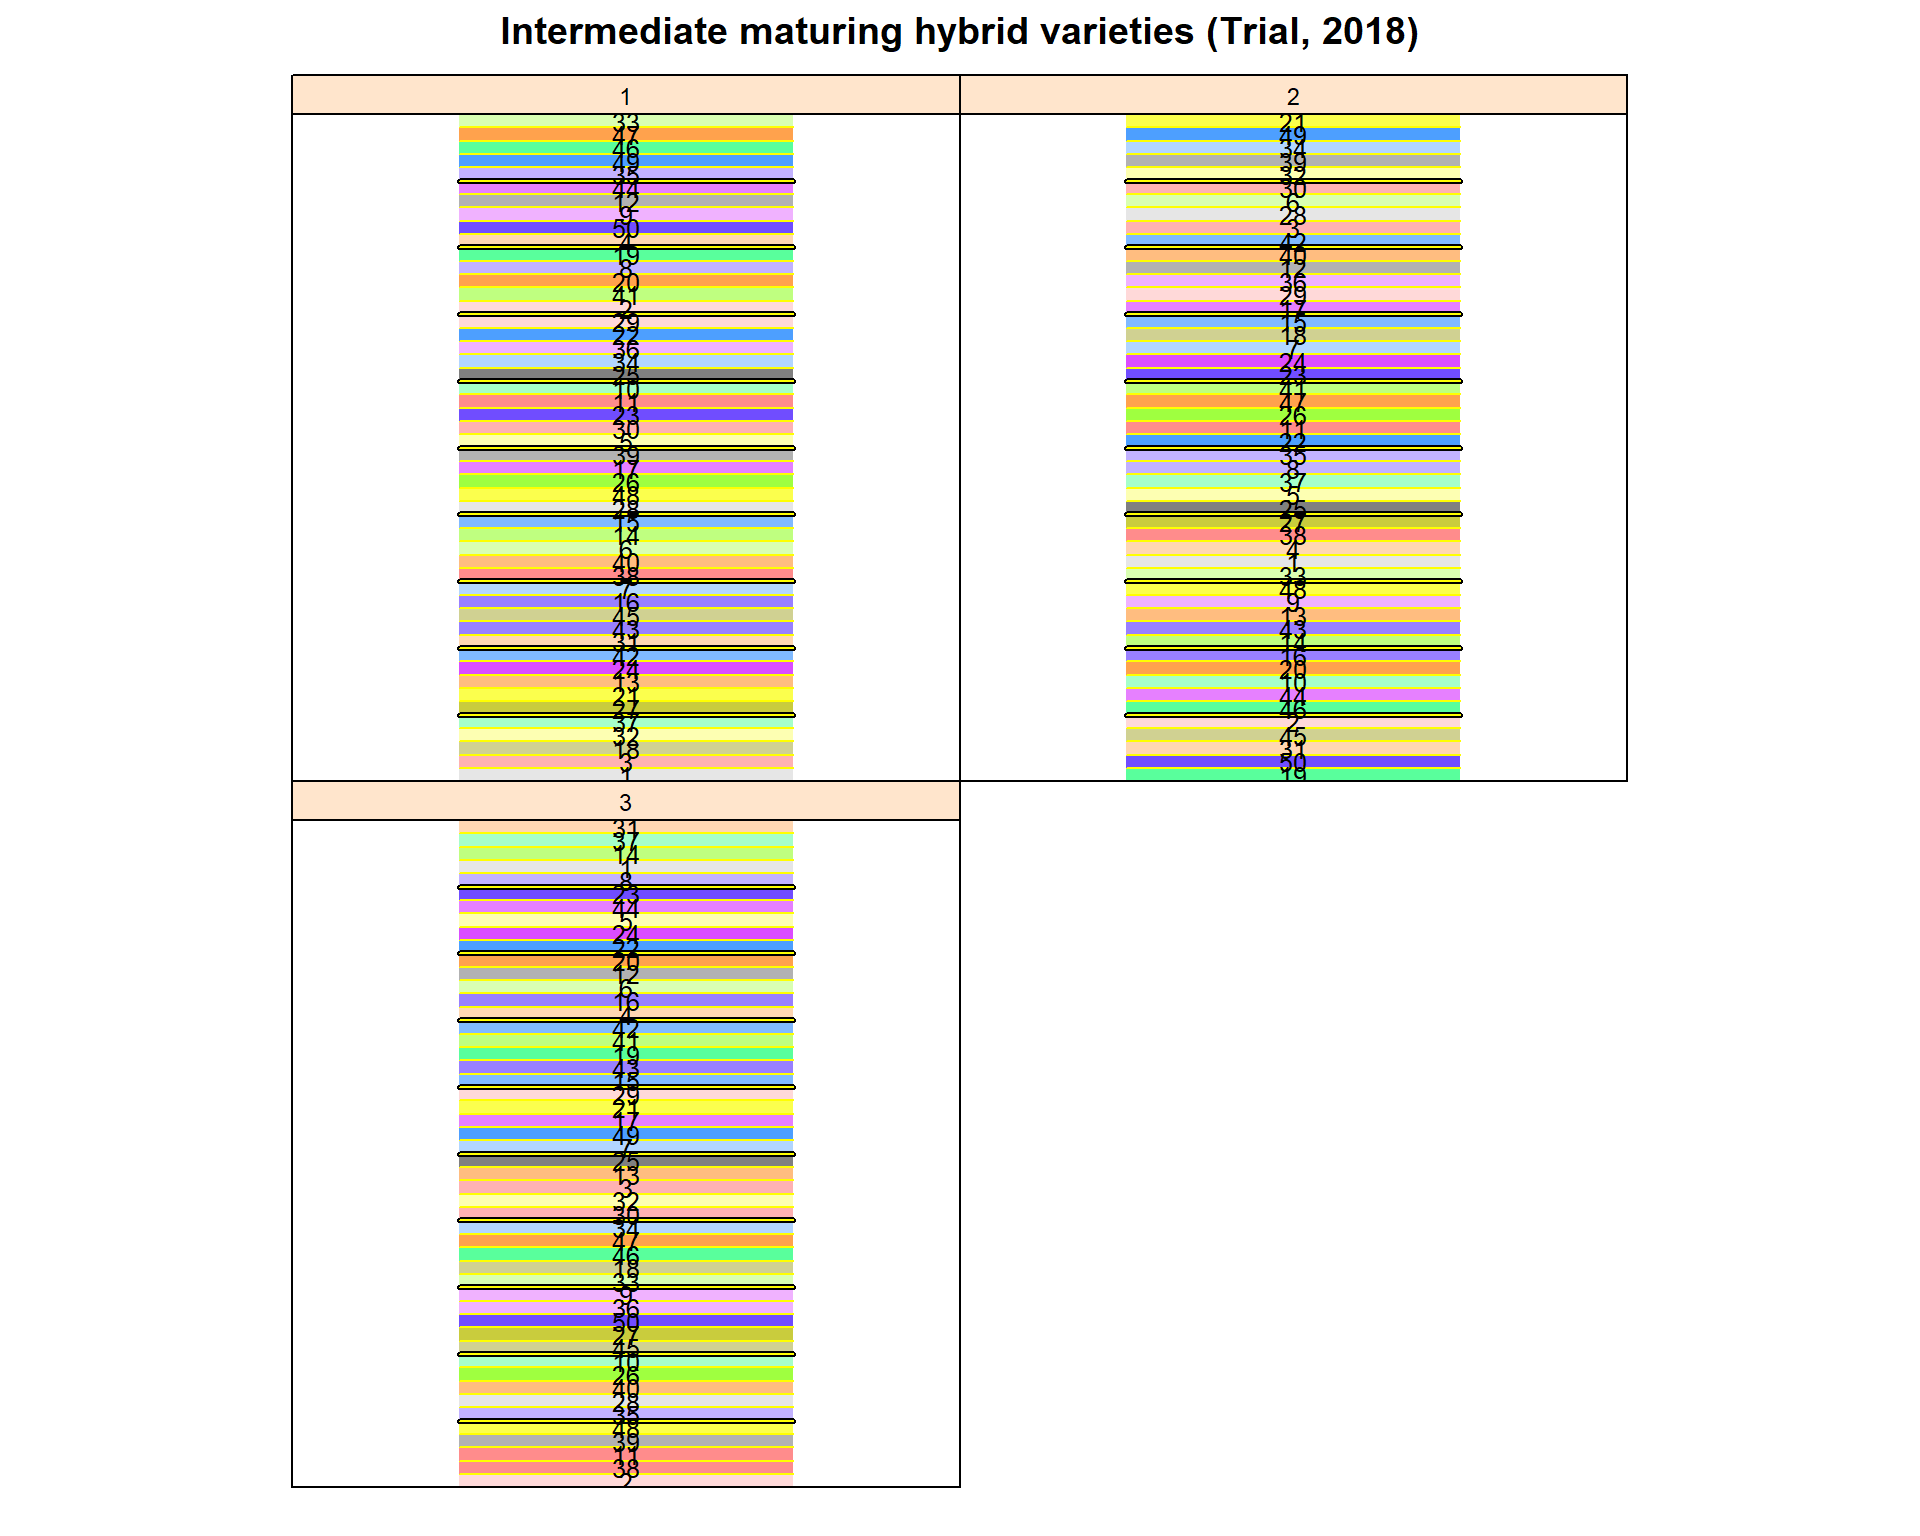
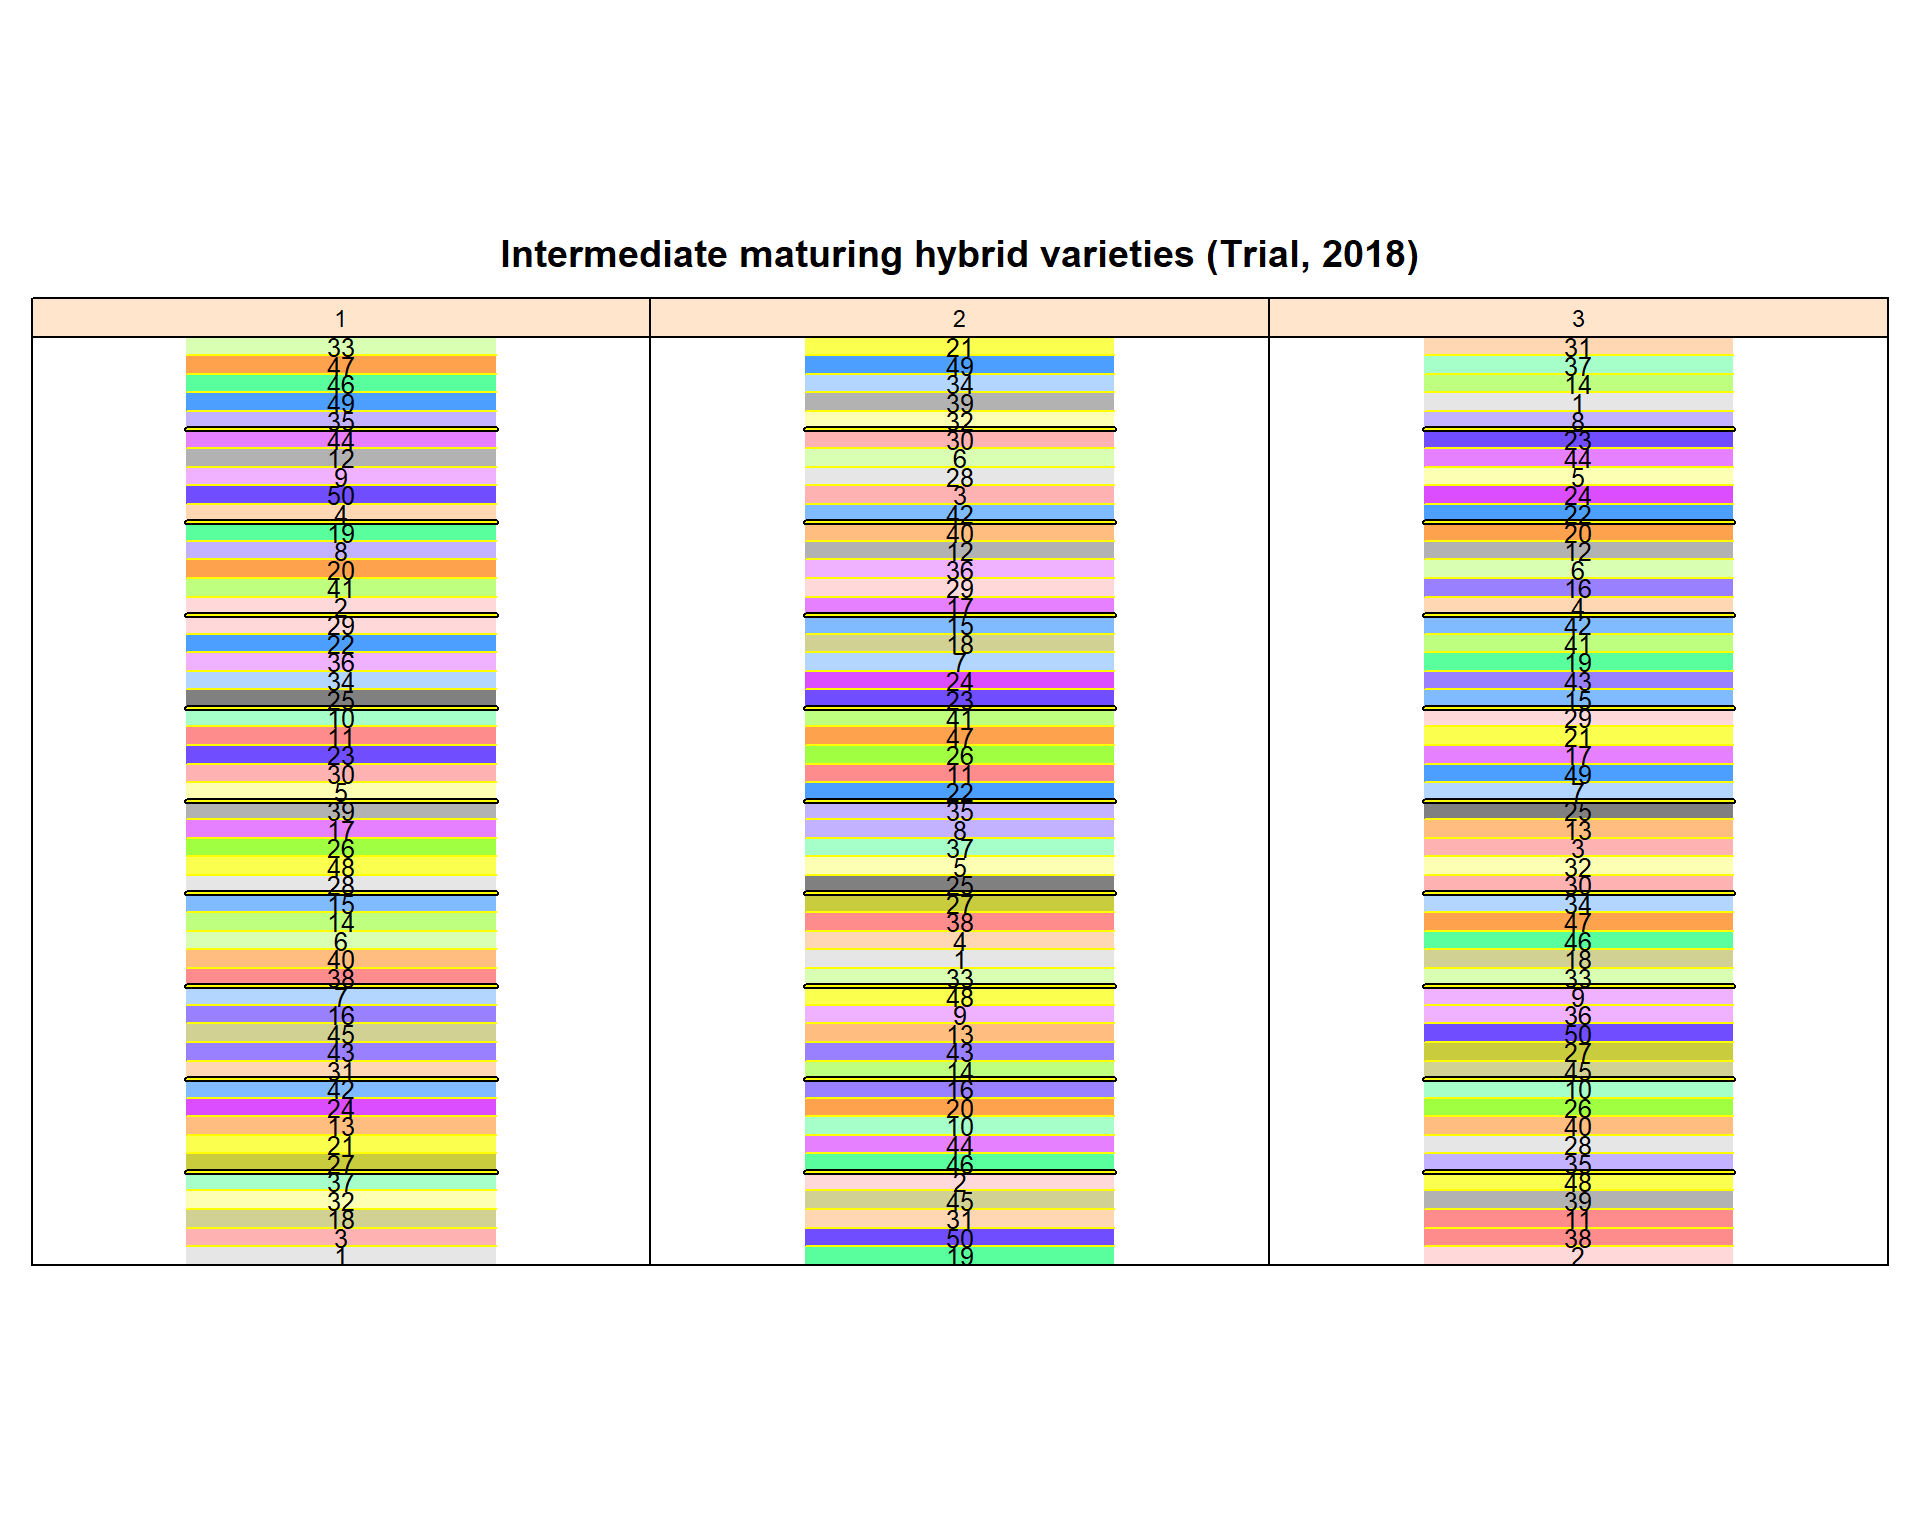
Fixed experimental layout visualization
Thanks to Kevin Wright

diff --git a/content/post/2018-11-25-layout-and-visualization-of-experimental-design.html b/content/post/2018-11-25-layout-and-visualization-of-experimental-design.html
@@ -347,5 +347,6 @@ Plant height
 <div id="lattice-graphics-approach" class="section level1">
 <h1>Lattice graphics approach</h1>
 <p>Using built-in function <code>desplot()</code> in desplot package, we can generate similar field design layout. In the plot below, individual entries (a factor variable) are highlighted as cell features. The process follows as shown below. In addition to default plotting, we can also generate serpentine design layout using simple mutating trick. Plus, block grouping has also been added to show the nested factor component.</p>
+<p><strong>Note</strong>: In order to plot in required layout, just specify: <code>layout = c(number_of_rows, number_of_columns)</code> argument (Thanks to (Kevin Wright)[<a href="https://github.com/kwstat" class="uri">https://github.com/kwstat</a>] for helping me figure this out.)</p>
 <p><img src="/post/2018-11-25-layout-and-visualization-of-experimental-design_files/figure-html/desplot-layout-1.png" width="960" style="display: block; margin: auto;" /></p>
 </div>
